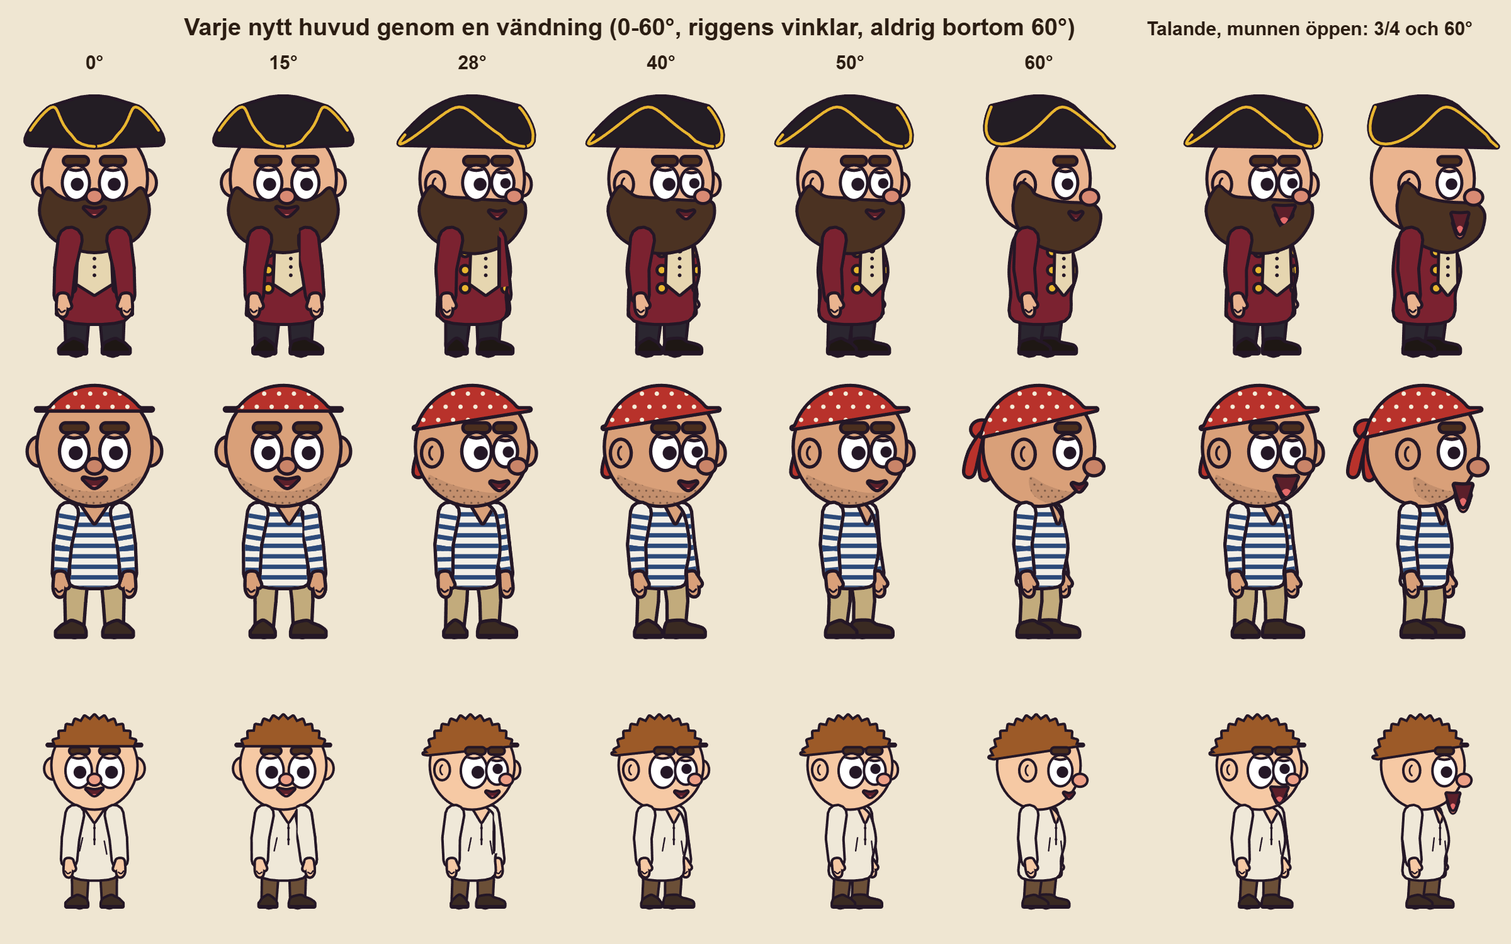
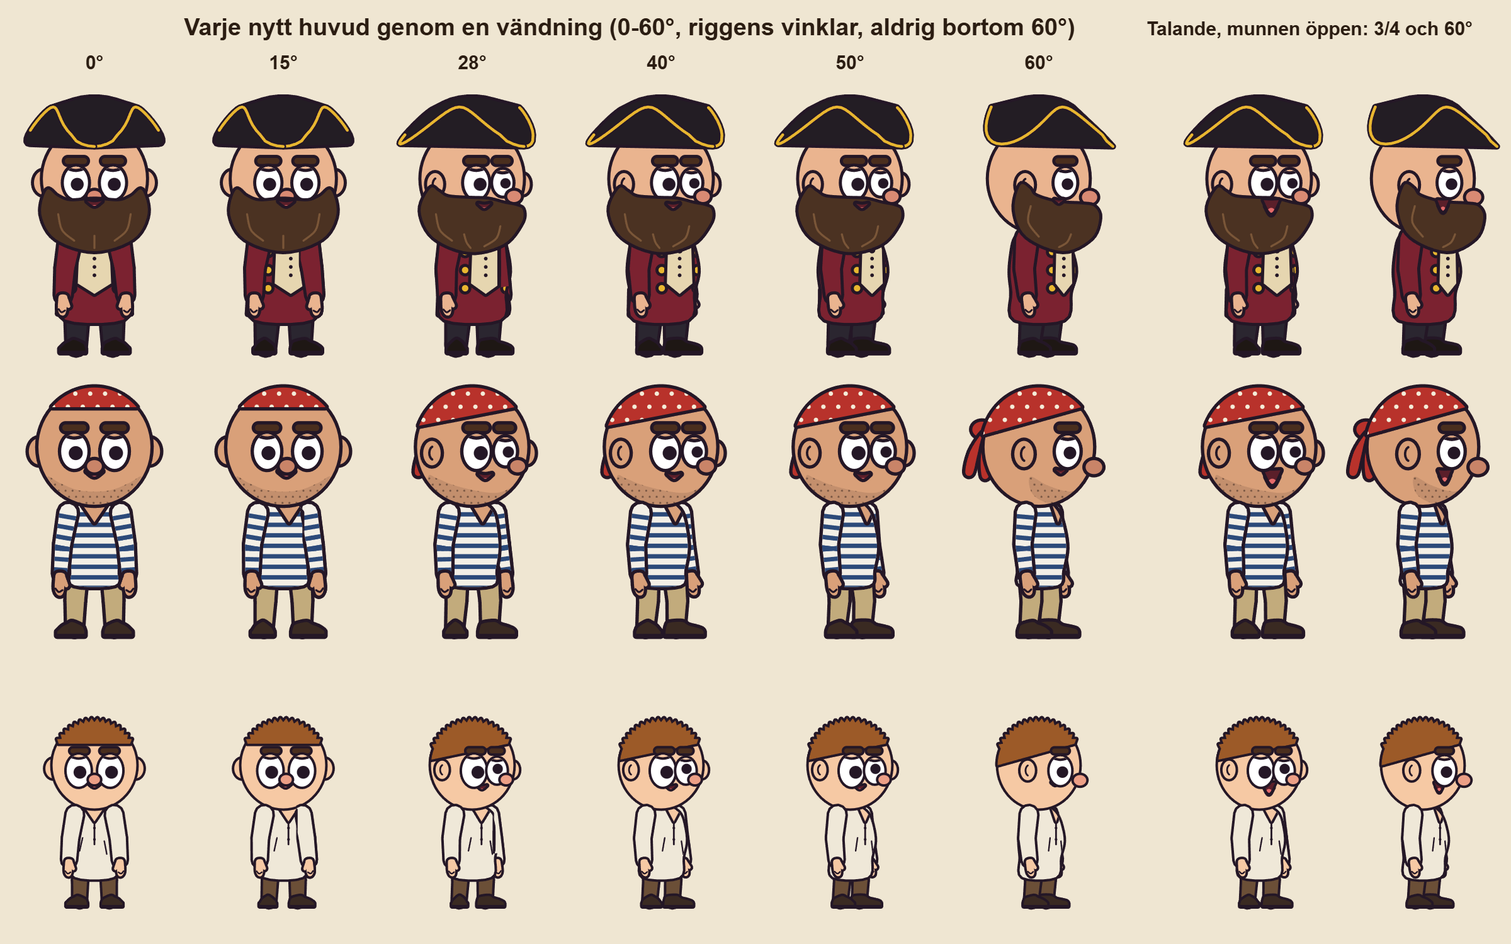
Figure sheet fixes (conditions 1-8): no cap remnants (the boy's hair on the head's outline, the scarf tight), the kit's mouth an ink line inside the head at every angle and opening (dinner_check rule 11, planted mouthOut fails), no face turn across 15-28 or 50-60 degrees in a shot (rule 12, planted 

diff --git a/engine/src/craft/wardrobe/kit.ts b/engine/src/craft/wardrobe/kit.ts
@@ -23,6 +23,14 @@ export type Kit = {
 export const kitOf = (lk?: Look | null): Kit | null => ((lk as unknown as { kit?: Kit } | undefined)?.kit ?? null);
 /** the kit being drawn (drawFlat sets it for each figure) */
 const KIT: { k: Kit | null } = { k: null };
+/** where a kit's mouth sits and how far it opens, per view (head frame): nearer the head's middle and smaller than Sir's, so the whole open
+ *  mouth with its lip stays at least an ink line inside the head's outline at every angle and opening (the sheet's review: at Sir's place the
+ *  open mouth reached the outline at the chin, in three-quarter and at 60 degrees) */
+export const kitMouth = (view: "front" | "q" | "side", mouth: number, smirk = 0, tx = 0) => view === "q"
+  ? { x: 30 + smirk * 4, y: -74 + 10 * (1 - Math.min(1, mouth / 0.5)), w: 15 * (1 + 0.3 * mouth), s: 0.58, m0: Math.max(mouth, 0.2) }
+  : view === "front" ? { x: tx * 0.8 + smirk * 4, y: -70, w: 18 * (1 + 0.3 * mouth), s: 0.62, m0: Math.max(mouth, 0.2) }
+  : { x: 50, y: -74, w: 11 * (1 + 0.3 * mouth), s: 0.48, m0: Math.max(mouth, 0.16) };
+const kitMouthDraw = (k: Ink, view: "front" | "q" | "side", r: FR, tx = 0) => { const m = kitMouth(view, r.mouth, r.smirk, tx); k.clip(ellPts(0, -128, 117, 123, 0, 0, 360, 60), () => mouthAt(k, m.x, m.y, m.w, m.s, { ...r, mouth: m.m0 }, "#e0806e")); };
 /** the hat's outline in the head's own frame for a view (fwd: 0 from the front, 0.7 three-quarter, 1 profile, facing +x), for the checks too */
 export const hatOutline = (kit: Kit, fwd: number): P2[] => {
   if (kit.hat === "tricorn") return tricorn(fwd).hull;
@@ -46,22 +54,27 @@ const convexHull = (P: P2[]): P2[] => { const p = [...P].sort((a, b) => a[0] - b
   for (const q of p.reverse()) { while (up.length >= 2 && cr(up[up.length - 2], up[up.length - 1], q) <= 0) up.pop(); up.push(q); } return [...lo.slice(0, -1), ...up.slice(0, -1)]; };
 /** a scarf tied over the head: the head's top above a line from the brow (-200, front) to the nape (-150, back) */
 const scarfPts = (fwd: number): P2[] => { const out: P2[] = [];
-  const line = (x: number) => -214 + Math.max(0, -x / 130) * 60 * fwd;      // (at -200 its edge lay on the brows, the sheet's first draft)
-  for (let i = 0; i <= 40; i++) { const a = Math.PI + (i / 40) * Math.PI, x = 131 * Math.cos(a), y = -128 + 137 * Math.sin(a); out.push([x, Math.min(y, line(x))]); }
+  // (tight on the head, 4 over its outline, closed along its lower edge: the first draft took the edge's line out past the head in front, a
+  //  point that read as a cap's peak, the sheet's review; at -200 its edge lay on the brows)
+  const line = (x: number) => -214 + Math.max(0, -x / 130) * 60 * fwd;
+  for (let i = 0; i <= 60; i++) { const a = Math.PI + (i / 60) * Math.PI, x = 127 * Math.cos(a), y = -128 + 133 * Math.sin(a); if (y <= line(x)) out.push([x, y]); }
   return out; };
 /** the scarf's knot and its two tails at the back of the head (drawn behind the head) */
 const scarfKnot = (fwd: number): P2[][] => { if (fwd < 0.3) return []; const bx = -122 * fwd;
   return [ellPts(bx - 8, -168, 22, 18), spline([[bx - 4, -162], [bx - 34, -120], [bx - 46, -70], [bx - 30, -66], [bx - 18, -112]]), spline([[bx + 4, -160], [bx - 10, -110], [bx - 8, -60], [bx + 8, -62], [bx + 10, -114]])]; };
 /** a boy's messy hair: the top of the head with tufts, the fringe ending above the brows (-190) */
 const messyHair = (fwd: number): P2[] => { const out: P2[] = [];
-  for (let i = 0; i <= 30; i++) { const u = i / 30, a = Math.PI * (1 + u), r = i % 2 ? 1.1 : 1.0, x = 130 * r * Math.cos(a) - 8 * fwd, y = -128 + 138 * r * Math.sin(a);
-    out.push([x, Math.min(y, -190 + (u < 0.5 ? 40 * (0.5 - u) * fwd * 2 : 0))]); }
+  // (on the head's own outline at the sides, tufts only over the crown (a from 205 to 335 degrees): the first draft's straight fringe ran out
+  //  past the head on both sides, a dark strip read as a cap's brim, the sheet's review)
+  const fr = (x: number) => -192 + Math.max(0, -x / 126) * 70 * fwd;      // (the fringe's line: above the brows in front, lower at the back)
+  for (let i = 0; i <= 48; i++) { const a = Math.PI * (1 + i / 48), deg = (a * 180) / Math.PI, tuft = deg > 205 && deg < 335 && i % 2 ? 1.09 : 1.0;
+    const x = 126 * tuft * Math.cos(a), y = -128 + 132 * tuft * Math.sin(a); if (y <= fr(x)) out.push([x, y]); }
   return out; };
 /** the full beard (head frame, three-quarter facing +x, or from the front, or in profile): round the jaw from the ears, under the eyes
  *  (never above -74 where an eye is), out past the chin; the mouth is drawn over it after */
 const beardPts = (view: "front" | "q" | "side"): P2[] => view === "front"
   ? spline([[-118, -100], [-132, -40], [-96, 22], [0, 52], [96, 22], [132, -40], [118, -100], [92, -84], [60, -72], [0, -76], [-60, -72], [-92, -84]])
-  : view === "q" ? spline([[-104, -104], [-128, -48], [-96, 18], [-8, 54], [78, 34], [122, -18], [128, -60], [112, -70], [80, -70], [40, -72], [-6, -76], [-60, -80], [-84, -94]])
+  : view === "q" ? spline([[-104, -104], [-128, -48], [-96, 18], [-8, 54], [78, 34], [122, -18], [126, -50], [110, -60], [80, -66], [40, -76], [-6, -78], [-60, -82], [-84, -96]])
   : spline([[-46, -112], [-60, -50], [-30, 16], [60, 52], [130, 20], [150, -30], [138, -58], [108, -64], [70, -66], [30, -72], [-10, -86], [-24, -104]]);
 /** stubble: a light shadow on the jaw and chin only, under the cheeks (the first draft, from under the eyes, read as a dirty face) */
 const stubblePts = (view: "front" | "q" | "side"): P2[] => view === "front"
@@ -220,6 +233,21 @@ const capSide = (k: Ink, back: number, front: number, y0: number, top: number, c
   if (LOOK.badge) fl(k, [[front - 6, y0 - 52], [front + 8, y0 - 40], [front + 4, y0 - 20], [front - 14, y0 - 20], [front - 18, y0 - 40]], LOOK.badge);
 };
 
+/** the full beard after the arms (the sheet's review: drawn with the head, the sleeves' rounded tops lay over it and the arms looked loose):
+ *  over the arms' upper part, but never over a forearm or a hand drawn in front of the head; then the mouth over the beard (the same clip) */
+const beardOverlay = (k: Ink, sk: Sk, r: FR, B: Body, P: Props, over: Side[]) => { const kit = KIT.k; if (!kit || kit.beard !== "full") return;
+  const sn = Math.sin(sk.faceYaw * (Math.PI / 180)), as = Math.abs(sn), flip = sn < 0, view: "front" | "q" | "side" = as < 0.45 ? "front" : as < 0.85 ? "q" : "side";
+  const B9 = 1e4, holes: P2[][] = over.flatMap((sd) => { const E = J(sk, "el", sd), W = J(sk, "wr", sd), T = J(sk, "tip", sd), hc: P2 = [(W[0] + T[0]) / 2, (W[1] + T[1]) / 2];
+    return [seg(E, W, B.arm[1] + 6, B.arm[2] + 6, 0, 0.3, true), ellPts(hc[0], hc[1], P.hand * 0.95, P.hand * 0.95, 0, 0, 360, 20), ellPts(E[0], E[1], B.arm[1] + 6, B.arm[1] + 6, 0, 0, 360, 16)]; });
+  const g = k.g; g.save(); g.beginPath(); g.rect(-B9, -B9, 2 * B9, 2 * B9); for (const h of holes) k.trace(h); g.clip("evenodd");
+  k.at(sk.j.skull[0], sk.j.skull[1], sk.headTilt, view !== "front" && flip, () => { const bp = beardPts(view); fl(k, bp, kit.col.beard);
+    k.clip(bp, () => { for (const [a, b, c] of BEARD_STRANDS[view]) k.line(spline([a, b, c], false, 8), 5, kit.col.beardHi ?? "#7a5638"); });
+    kitMouthDraw(k, view, r, sn * 34); });
+  g.restore(); };
+/** two or three lighter strands in the beard, so it is not a flat dark hole in a close shot (the reviewer, cosmetic) */
+const BEARD_STRANDS: Record<string, [P2, P2, P2][]> = { q: [[[-90, -40], [-80, 0], [-50, 26]], [[70, -10], [60, 20], [30, 40]], [[-20, 10], [-14, 30], [-4, 44]]],
+  front: [[[-90, -40], [-80, 0], [-50, 26]], [[90, -40], [80, 0], [50, 26]], [[0, 14], [0, 30], [0, 44]]], side: [[[-20, -60], [-26, -20], [0, 16]], [[80, 10], [70, 30], [50, 42]]] };
+
 // ---------------- the kit's head parts (in the head's own frame, facing +x; fwd as hatOutline) ----------------
 /** behind the head: the scarf's knot and tails */
 const kitBack = (k: Ink, fwd: number) => { const kit = KIT.k; if (!kit) return; if (kit.hat === "scarf") for (const p of scarfKnot(fwd)) fl(k, p, kit.col.scarf); };
@@ -227,7 +255,7 @@ const kitBack = (k: Ink, fwd: number) => { const kit = KIT.k; if (!kit) return; 
 const kitFace = (k: Ink, view: "front" | "q" | "side", fwd: number) => { const kit = KIT.k; if (!kit) return;
   const head = ellPts(0, -128, 126, 132, 0, 0, 360, 60);
   if (kit.beard === "stubble") k.clip(head, () => { const st = stubblePts(view); k.shape(st, kit.col.stubble, 0); k.clip(st, () => { for (let x = -130; x < 150; x += 16) for (let y = -70; y < 20; y += 14) k.dot(x + ((y / 14) % 2) * 8, y, 2.2, "rgba(60,40,32,0.55)"); }); });
-  if (kit.beard === "full") fl(k, beardPts(view), kit.col.beard);
+  // (the full beard is not drawn here: beardOverlay draws it after the arms, so it lies over the arms' upper part, and the mouth over it)
   if (kit.hat === "none" && kit.hair === "messy") fl(k, messyHair(fwd), kit.col.hair);
 };
 /** the hat, last */
@@ -420,9 +448,10 @@ const drawFlat = (c: FlatSpec) => (k: Ink, sk: Sk, o: FigOpts) => {
     const HC = Math.max(Math.hypot(hc[0] - W2[0], hc[1] - W2[1]), P.hand * 0.6) + 12, circ: P2[] = Array.from({ length: 24 }, (_, i) => [hc[0] + HC * Math.cos((i * Math.PI) / 12), hc[1] + HC * Math.sin((i * Math.PI) / 12)] as P2);
     if (u > 0 && u < 1) { const S2 = J(sk, "sh", far), E2 = J(sk, "el", far), cutLine = () => k.clip(torsoPoly, () => { for (const piece of limb(S2, E2, W2, B.arm)) k.clip(piece, () => k.line([[line, -B9], [line, B9]], k.ol)); });
       if (!FACE.cuffSwap) outside(cutLine); else without(behindPts, () => without(circ, cutLine)); }
-    arm(near); return;
+    arm(near); beardOverlay(k, sk, r, B, P, [near]); return;
   }
   layers(sk, { arm, leg, torso, head });
+  beardOverlay(k, sk, r, B, P, Math.abs(sk.sin) > 0.5 ? [sk.near] : [sk.far, sk.near]);
 };
 /** where the far arm comes out from behind the body in a turn (|sin| of the facing); [0, 0] switches it in one frame at 0.5 (the v4 order,
  *  the bytes check's planted fault) */
@@ -472,7 +501,7 @@ const A_SPEC: FlatSpec = {
     // (shut, a mouth 0.2 open, so it reads at phone size: at 0.13 it was a strip of 2-4 px; the pipe rides the mouth's corner down as it
     //  opens: it stayed under the moustache while the mouth gaped, the review of the shot types v1)
     const m0 = Math.max(r.mouth, 0.2);
-    mouthAt(k, tx + r.smirk * 4, -52, mw, 1, { ...r, mouth: m0 }, "#e0806e");
+    if (KIT.k) { if (KIT.k.beard !== "full") kitMouthDraw(k, "front", r, tx); } else mouthAt(k, tx + r.smirk * 4, -52, mw, 1, { ...r, mouth: m0 }, "#e0806e");
     if (LOOK.pipe) pipeAt(k, [tx + mw - 2, -48 + 61 * (m0 - 0.2) * 0.45 + cornerDown(r, 1)], 1, 1, droopOf(r));
     // (v6: turned toward three-quarter, the half on the side he turns to is shortened just enough to stay inside the head: at tx 15 its tip went
     //  6 past the outline. At tx 0, as in 01 and 04, nothing changes)
@@ -493,7 +522,7 @@ const A_SPEC: FlatSpec = {
     // (from the side the pipe's mouthpiece is in the mouth under the moustache, not at the moustache's tip: Jesper choosing A. The mouth is drawn
     //  after the stem, so it shows in profile too: it was hidden by the moustache and the pipe while he walked in, the review of the motion test)
     if (LOOK.pipe) pipeAt(k, [104, -40], 1, 1, droopOf(r));
-    mouthAt(k, 92, -40, 14 * (1 + 0.4 * r.mouth), 0.9, { ...r, mouth: Math.max(r.mouth, 0.16) }, "#e0806e");
+    if (KIT.k) { if (KIT.k.beard !== "full") kitMouthDraw(k, "side", r); } else mouthAt(k, 92, -40, 14 * (1 + 0.4 * r.mouth), 0.9, { ...r, mouth: Math.max(r.mouth, 0.16) }, "#e0806e");
     if (LOOK.moustache) fl(k, spline([[70, -72], [108, -76], [130, -80], [140, -100], [151, -94], [140, -66], [112, -58], [74, -62]]), lc('hair', CA.hair));
     eyeA(k, 66, -118 + ((KIT.k?.eyes ?? 1) - 1) * 30, 0.9 * (KIT.k?.eyes ?? 1), { ...r, gaze: [Math.max(0.35, r.gaze[0]), r.gaze[1]] }, lc('skin', CA.skin), 1);      // (after the moustache, as front and three-quarter)
     if (mono && LOOK.mono) monoRing(k, 66, -118, 36, 50, 7);
@@ -529,7 +558,7 @@ const A_SPEC: FlatSpec = {
     //  independent review of v4; it sits 14 lower when closed, under the moustache's edge)
     const my = -58 + 14 * (1 - Math.min(1, r.mouth / 0.5));
     const m0 = Math.max(r.mouth, 0.2);
-    k.clip(head, () => mouthAt(k, 62 + r.smirk * 4, my, mw, 0.8, { ...r, mouth: m0 }, "#e0806e"));
+    if (KIT.k) { if (KIT.k.beard !== "full") kitMouthDraw(k, "q", r); } else k.clip(head, () => mouthAt(k, 62 + r.smirk * 4, my, mw, 0.8, { ...r, mouth: m0 }, "#e0806e"));
     // (the pipe stays in his left mouth corner: turned to his left that corner is the far one, at the mouth's nose side; turned to his right
     //  (drawn mirrored) it is the near one, at the mouth's back, the stem going out the same way on the screen as from the front. It jumped
     //  to the other corner in one frame, the review of v2)

diff --git a/engine/src/craft/wardrobe/KitSheet.tsx b/engine/src/craft/wardrobe/KitSheet.tsx
@@ -11,7 +11,7 @@ import { FLAT } from "../designs/flat";
 import { KIT_DESIGN } from "./kit";
 import { CAPTAIN_LOOK, SAILOR_LOOK, BOY_LOOK, KIT_HEIGHTS } from "./cast";
 
-export const KSW = 2400, KSH = 1500, KIT_FRAMES = 2;
+export const KSW = 2400, KSH = 1500, KIT_FRAMES = 3;
 const BG = "#efe6d2", TXT = "#2b1d12";
 type G = CanvasRenderingContext2D;
 type Person = { name: string; D: Design; o: FigOpts; h: number };
@@ -35,18 +35,19 @@ const SMILE: Face = { pupil: 1, smile: 0.5, gaze: [0.3, 0.1], lid: 0.1 };
 
 const sheet0 = (g: G) => {
   text(g, "Middagens tre bredvid Sir, 3/4", 640, 70, 44);
-  const xs = [150, 450, 760, 1060], base = 760, sc = 0.82, pose = { ...POSES.stand, head: headTo(38, 4) };
+  const xs = [180, 470, 780, 1070], base = 760, sc = 0.82, pose = { ...POSES.stand, head: headTo(38, 4) };
   PEOPLE.forEach((p, i) => { draw(g, p, pose, 38, SMILE, xs[i], base, sc); text(g, p.name, xs[i], base + 50, 26); });
   text(g, "Samma fyra som siluetter", 1760, 70, 44);
-  PEOPLE.forEach((p, i) => silhouette(g, p, pose, 38, 1270 + i * 300, base, sc));
+  PEOPLE.forEach((p, i) => silhouette(g, p, pose, 38, 1420 + i * 285, base, sc));
   // the captain seated, both hands on his knees (the near hand on the near knee, the far one on the far knee, 86 % of it in sight)
   text(g, "Kaptenen sittande, 3/4, båda händerna synliga", 640, 900, 40);
-  const C = PEOPLE[1], yaw = 40, s0 = solve(C.D.props("sir"), POSES.stand, yaw);
-  const sp: Pose = { ...POSES.stand, pz: -0.52, py: -0.43, lean: 8, head: headTo(yaw, 4), [`arm${s0.near}`]: [[10, -20], [40, 20]], [`arm${s0.far}`]: [[-20, 5], [45, 20]] } as Pose;
+  // (the body at 28 degrees, the head turned on to three-quarter: under 30 degrees the rig draws both arms over the body, so the far hand on
+  //  his far knee shows whole; at 40 it lay behind his near leg, a knuckle only, the sheet's review)
+  const C = PEOPLE[1], yaw = 28, s0 = solve(C.D.props("sir"), POSES.stand, yaw);
+  const sp: Pose = { ...POSES.stand, pz: -0.52, py: -0.43, lean: 8, head: headTo(yaw, 4), [`arm${s0.near}`]: [[10, -20], [40, 20]], [`arm${s0.far}`]: [[10, 20], [40, -10]] } as Pose;
   const sx = 640, sy = 1440, k = 0.82 * (C.h / 1.75);
-  g.setTransform(1, 0, 0, 1, 0, 0); g.fillStyle = "#8a5a33"; g.strokeStyle = "#241726"; g.lineWidth = 7;      // (the stool, for the sheet only: its top under the seat)
-  g.beginPath(); g.rect(sx - 150 * k, sy - 104 * k, 130 * k, 18 * k); g.fill(); g.stroke();
-  for (const dx of [-140, -40]) { g.beginPath(); g.rect(sx + dx * k, sy - 86 * k, 12 * k, 86 * k); g.fill(); g.stroke(); }
+  g.setTransform(1, 0, 0, 1, 0, 0); g.fillStyle = "#7a4f2e"; g.strokeStyle = "#241726"; g.lineWidth = 7;      // (a bench wider than his hips, for the sheet only)
+  g.beginPath(); g.rect(sx - 175 * k, sy - 108 * k, 290 * k, 26 * k); g.fill(); g.stroke(); g.beginPath(); g.rect(sx - 165 * k, sy - 82 * k, 270 * k, 82 * k); g.fill(); g.stroke();
   draw(g, C, sp, yaw, { pupil: 1, smile: 0.2, gaze: [0.4, 0.2] }, sx, sy, 0.82);
   text(g, "(telefonstorlek: samma rader i 360 px bredd i en egen fil)", 1760, 1440, 26, 400);
 };
@@ -61,9 +62,26 @@ const sheet1 = (g: G) => {
     draw(g, p, { ...POSES.stand, head: [0, 0, 0] }, y, { pupil: 1, mouth: 0.85, smile: 0.1, gaze: [0.2, 0] }, x, bases[r], 0.64); }));
 };
 
+/** the fixes after the review (frame 2): the captain standing at 0 and 15 degrees and seated, the sailor and the boy speaking at three-quarter,
+ *  the tricorn from 0 to 60 degrees in 5-degree steps */
+const sheet2 = (g: G) => {
+  const C = PEOPLE[1], S = PEOPLE[2], Bo = PEOPLE[3];
+  text(g, "Rättat: skägget över ärmarnas överdel, munnen innanför konturen", 1200, 56, 38);
+  draw(g, C, { ...POSES.stand, head: [0, 0, 0] }, 0, SMILE, 170, 720, 0.85); text(g, "0°", 170, 770, 28);
+  draw(g, C, { ...POSES.stand, head: [0, 0, 0] }, 15, SMILE, 470, 720, 0.85); text(g, "15°", 470, 770, 28);
+  const yaw = 40, s0 = solve(C.D.props("sir"), POSES.stand, yaw);
+  const sp: Pose = { ...POSES.stand, pz: -0.52, py: -0.43, lean: 8, head: headTo(yaw, 4), [`arm${s0.near}`]: [[10, -20], [40, 20]], [`arm${s0.far}`]: [[-20, 5], [45, 20]] } as Pose;
+  draw(g, C, sp, yaw, { pupil: 1, smile: 0.2, gaze: [0.4, 0.2], mouth: 0.8 }, 820, 720, 0.85); text(g, "sittande, talar", 820, 770, 28);
+  draw(g, S, { ...POSES.stand, head: headTo(38, 0) }, 38, { pupil: 1, mouth: 0.9, smile: 0.2, gaze: [0.3, 0] }, 1300, 720, 0.85); text(g, "sjömannen talar, 3/4", 1300, 770, 28);
+  draw(g, Bo, { ...POSES.stand, head: headTo(38, 0) }, 38, { pupil: 1, mouth: 0.9, smile: 0.3, gaze: [0.3, 0] }, 1700, 720, 0.85); text(g, "pojken talar, 3/4", 1700, 770, 28);
+  draw(g, S, { ...POSES.stand, head: headTo(-38, 0) }, -38, { pupil: 1, mouth: 0.9, smile: 0.2, gaze: [0.3, 0] }, 2100, 720, 0.85); text(g, "sjömannen, åt vänster", 2100, 770, 28);
+  text(g, "Trekantshatten 0-60° i steg om 5° (vyn byts vid 27° och 58°: ingen vändning i v6 korsar 15-28° eller 50-60°)", 1200, 860, 32);
+  for (let i = 0; i <= 12; i++) { const y = i * 5, x = 110 + i * 180; draw(g, C, { ...POSES.stand, head: [0, 0, 0] }, y, SMILE, x, 1460, 0.5); text(g, `${y}°`, x, 1490, 24); }
+};
+
 export const KitSheet: React.FC = () => {
   const f = useCurrentFrame(), ref = useRef<HTMLCanvasElement>(null);
   useEffect(() => { const h = delayRender(); const g = ref.current!.getContext("2d")!; g.fillStyle = BG; g.fillRect(0, 0, KSW, KSH);
-    if (f === 0) sheet0(g); else sheet1(g); continueRender(h); }, [f]);
+    if (f === 0) sheet0(g); else if (f === 1) sheet1(g); else sheet2(g); continueRender(h); }, [f]);
   return <AbsoluteFill><canvas ref={ref} width={KSW} height={KSH} /></AbsoluteFill>;
 };

diff --git a/engine/src/craft/checks/bodyGeom.ts b/engine/src/craft/checks/bodyGeom.ts
@@ -10,7 +10,7 @@
 import { hand, seg, ellPts, type P2, type HandKind } from "../ink";
 import { limb, torsoPts, handFlip, seated } from "../designs/common";
 import type { Sk, Side } from "../rig";
-import { hatOutline, type Kit } from "../wardrobe/kit";
+import { hatOutline, kitMouth, type Kit } from "../wardrobe/kit";
 
 export type Body = { rows: number[][]; arm: number[]; leg: number[] };
 const R = Math.PI / 180;
@@ -63,14 +63,18 @@ export const occluders = (sk: Sk, B: Body, side: Side, nearKind: HandKind, kit: 
   return [...legPolys(sk, B, kit), torsoPoly(sk, B), ...headPolys(sk, kit), ...armParts(sk, sk.near, nearKind, B).all];
 };
 
+/** is a head-frame point inside the head's outline less an ink line (9): the mouth must lie there (dinner_check rule 11) */
+export const insideHead = (sk: Sk, p: P2) => { const o = sk.j.skull as unknown as P2, c = Math.cos(-sk.headTilt * R), sn = Math.sin(-sk.headTilt * R), dx = p[0] - o[0], dy = p[1] - o[1], lx = dx * c - dy * sn, ly = dx * sn + dy * c;
+  return (lx / 117) ** 2 + ((ly + 128) / 123) ** 2 <= 1; };
 /** the mouth with its lower lip, filled with points (flat.ts mouthAt as each view places it; m = the face's mouth, smirk) */
-export const mouthPts = (sk: Sk, face: { mouth?: number; smirk?: number } = {}): P2[] => {
+export const mouthPts = (sk: Sk, face: { mouth?: number; smirk?: number; smile?: number } = {}, kit: Kit | null = null, shift: P2 = [0, 0]): P2[] => {
   const m = face.mouth ?? 0, sm = face.smirk ?? 0, sn = Math.sin(sk.faceYaw * R), as = Math.abs(sn), view = as < 0.45 ? "front" : as < 0.85 ? "q" : "side";
-  const [cx, y0, w, s, m0] = view === "q" ? [62 + sm * 4, -58 + 14 * (1 - Math.min(1, m / 0.5)), 18 * (1 + 0.4 * m), 0.8, Math.max(m, 0.2)]
+  const km = kit ? kitMouth(view, m, sm, sn * 34) : null;
+  const [cx0, y00, w, s, m0] = km ? [km.x, km.y, km.w, km.s, km.m0] : view === "q" ? [62 + sm * 4, -58 + 14 * (1 - Math.min(1, m / 0.5)), 18 * (1 + 0.4 * m), 0.8, Math.max(m, 0.2)]
     : view === "front" ? [sn * 34 + sm * 4, -52, 24 * (1 + 0.4 * m), 1, Math.max(m, 0.2)] : [92, -40, 14 * (1 + 0.4 * m), 0.9, Math.max(m, 0.16)];
-  const H = 61 * s * m0, y1 = y0 + H + 7 * s + 9 * s, pts: P2[] = [];      // (to the lower lip's band under the open mouth)
+  const cx = cx0 + shift[0], y0 = y00 + shift[1], sml = face.smile ?? 0, H = 61 * s * m0 + Math.max(0, sml) * 10 * s, y1 = y0 + H + 7 * s + 9 * s, pts: P2[] = [];      // (shift: the check's planted fault)      // (to the lower lip's band under the open mouth)
   for (let i = 0; i <= 6; i++) for (let j = 0; j <= 4; j++) { const u = -1 + (2 * i) / 6, v = j / 4, half = Math.sqrt(Math.max(0, 1 - u * u)) * 0.5 + 0.5;
-    pts.push(headPt(sk, [cx + u * w * half, y0 - 3 + (y1 - y0 + 3) * v])); }
+    pts.push(headPt(sk, [cx + u * (w + 4.5) * half, y0 - 3 - 12 * s * Math.max(0, -sml) + (y1 - y0 + 3) * v])); }      // (to the corners' ink; a frown lifts the corners)
   return pts;
 };
 

diff --git a/engine/src/craft/wardrobe/cast.ts b/engine/src/craft/wardrobe/cast.ts
@@ -5,7 +5,7 @@ import type { Look } from "../designs/common";
 import type { Kit } from "./kit";
 
 export const CAPTAIN_KIT: Kit = { name: "captain", hat: "tricorn", hair: "none", beard: "full", top: "coat",
-  body: { w: 1.24, d: 1.18, arm: [26, 22, 19], leg: [30, 26, 22], hem: -34 }, col: { hat: "#231d24", beard: "#4b3222" } };
+  body: { w: 1.24, d: 1.18, arm: [26, 22, 19], leg: [30, 26, 22], hem: -34 }, col: { hat: "#231d24", beard: "#4b3222", beardHi: "#7a5638" } };
 export const SAILOR_KIT: Kit = { name: "sailor", hat: "scarf", hair: "none", beard: "stubble", top: "stripes",
   body: { w: 0.8, d: 0.84, arm: [20, 17, 15], leg: [23, 20, 17] }, col: { scarf: "#b8322b", stubble: "rgba(80,55,45,0.16)", stripe: "#2c4a7a" } };
 export const BOY_KIT: Kit = { name: "boy", hat: "none", hair: "messy", beard: "none", top: "shirt", eyes: 1.22,

diff --git a/granskning/kaptenens-middag/figurark-v6/stopp-figurark.md b/granskning/kaptenens-middag/figurark-v6/stopp-figurark.md
@@ -41,3 +41,28 @@ Kepsen, monokeln, mustaschen och pipan finns bara hos Sir. Alla tre bifigurerna 
 - I sidovyn vid 60° sitter skägget framåt, men munnen syns.
 - Sir och kaptenen har båda stora mörka huvudbonader. Som siluett skiljs de åt av hattens spetsar, kaptenens bredd och skägget, och Sir av pipan.
 - Pojkens hår är en enkel tofsig kalott och inget mer detaljerat.
+
+## Rättat efter granskningen (villkor 1–8)
+1. **Kepsresterna.**
+   - Pojkens hår följer huvudets kontur på sidorna, med tofsar bara över hjässan och luggen ovanför brynen.
+   - Sjalen ligger tätt på huvudet, högst 1 över konturen, utan spets framåt.
+   - I siluetten har bara kaptenen ett brätte (ark 1 och telefon-360-siluetter).
+2. och 5. **Munnen.**
+   - Kitets mun (`kitMouth`) sitter närmare huvudets mitt och är mindre. Hela den öppna munnen med läppen ligger minst en bläcklinje innanför konturen.
+   - Det är provat i varje vinkel från -60 till 60° i steg om 5°, med öppning 0–1, leende och snedhet: 0 punkter utanför.
+   - **Ny regel 11 i dinner_check:** munnen ligger innanför huvudets kontur. Planterat fel `mouthOut`: 1 299 nya fel.
+3. **Sitsen.**
+   - På arket sitter kaptenen på en bänk som är bredare än höfterna.
+   - I v6 blir det en 3D-kista eller -bänk, och dinner_check mäter att hela bäckenbredden vilar på sitsen (byggs i v6).
+4. **Bredd och höjd.** Båda fanns redan som parametrar:
+   - kaptenens bål är 1,24x bredare;
+   - sjömannen är 1,90 m mot 1,75 m, alltså 8,6 % längre i ben och bål.
+
+   Ingen ny riggkod behövdes.
+6. **Hatten.** Ingen vändning i v6 korsar 15–28° eller 50–60°.
+   - **Ny regel 12 i dinner_check:** ansiktets vridning korsar aldrig de banden inom en bild. Planterat fel `turnCross`: det fäller.
+   - Ark 3 visar hatten 0–60° i steg om 5°. Formen byts vid vyskiftena 27° och 58° och är stilla däremellan.
+7. **Skägget.** Det ritas efter armarna, över ärmarnas överdel men aldrig över en underarm eller en hand framför huvudet. Munnen ritas över skägget. Ljusare hårstrån ger skägget tre streck.
+8. **Telefonutsnitten** är gjorda om. Ingen figur är avskuren, och ingen bit av arket syns vid kanten.
+
+Kaptenen sittande på ark 1 har kroppen vriden 28°, med huvudet i 3/4. Under 30° ritar riggen båda armarna över kroppen, så båda händerna syns hela på knäna. Vid 40° låg den bortre bakom benet.
